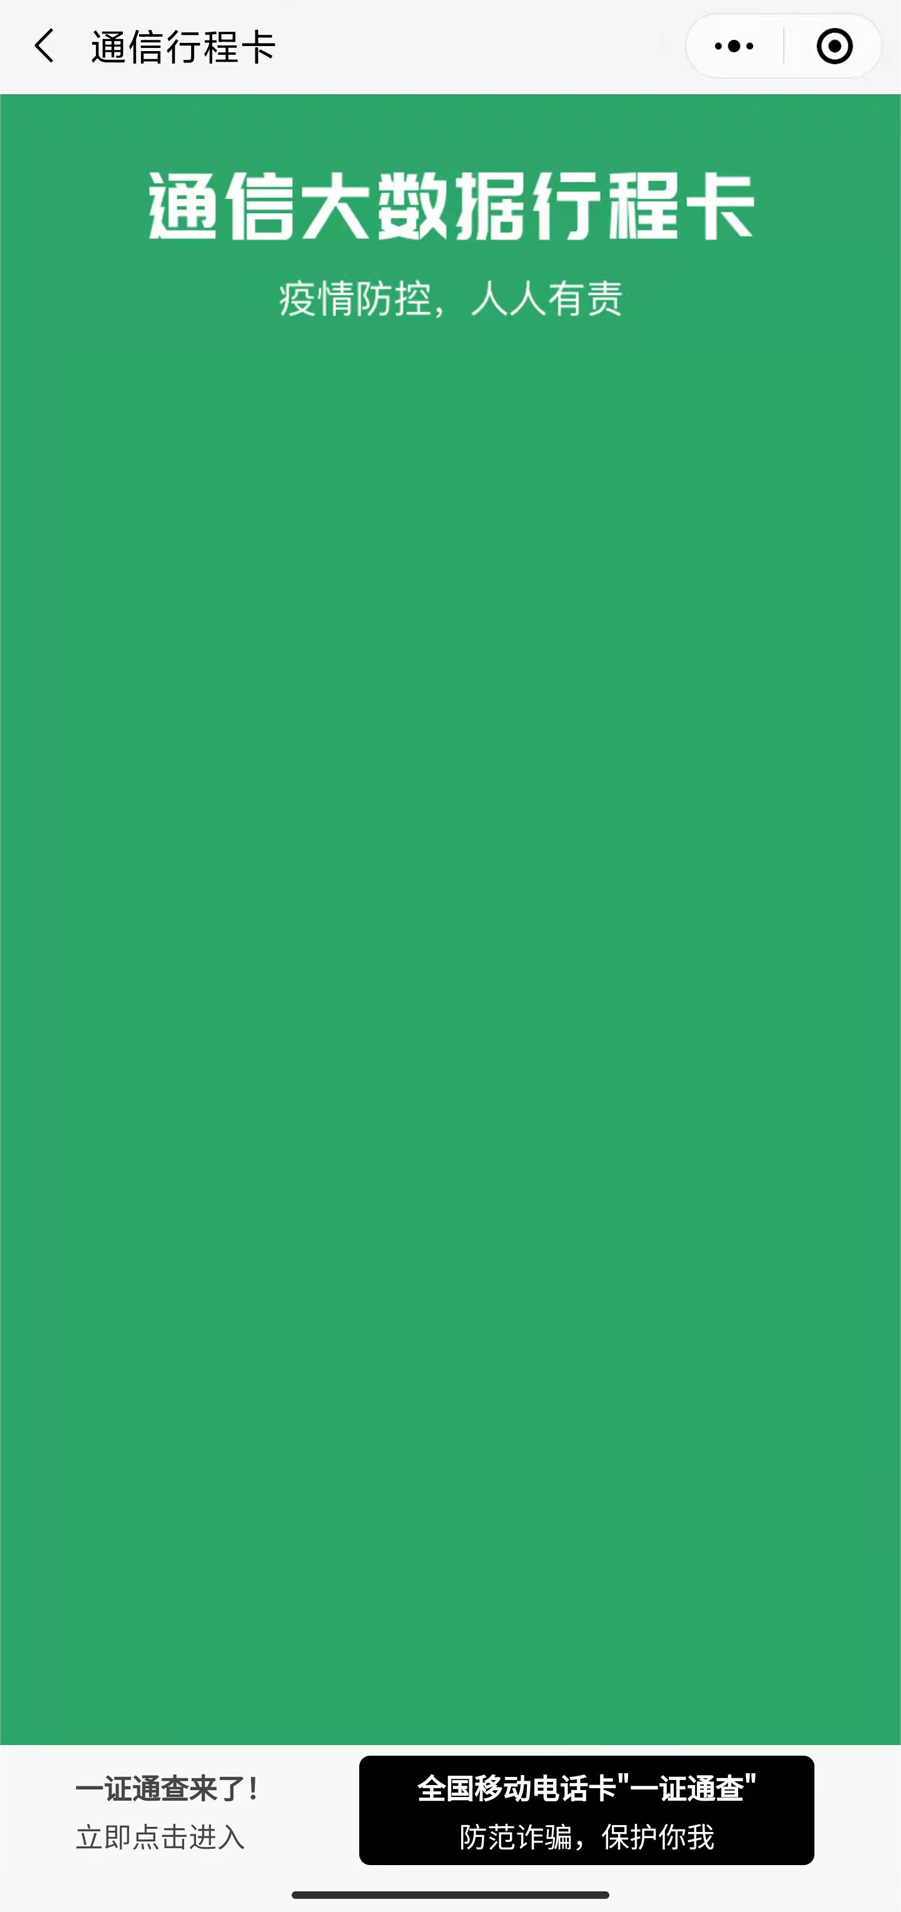
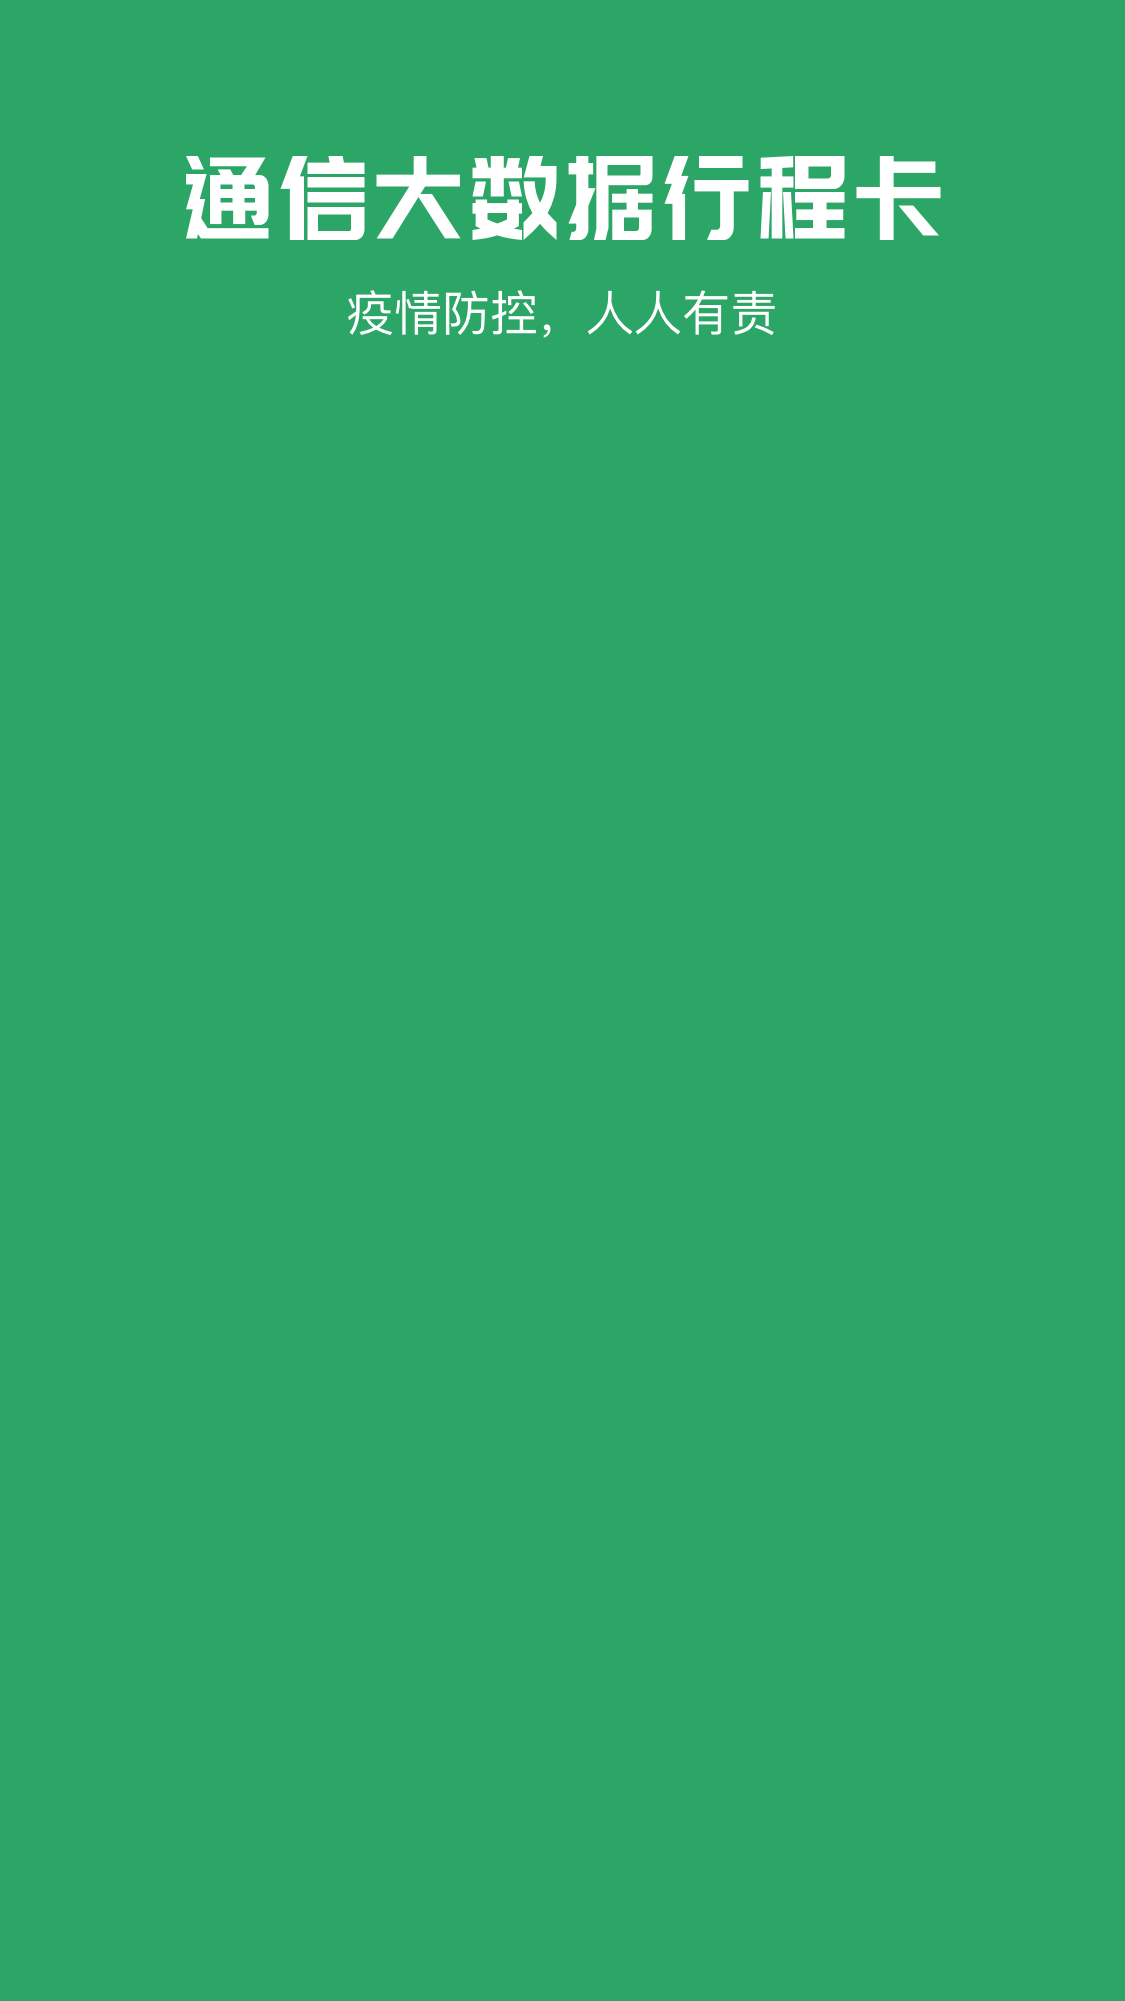
0

Changed region(s): [[0.0, 0.0, 1.0, 1.0]]

diff --git a/result.html b/result.html
@@ -76,8 +76,9 @@
               ) + "的动态行程卡";
               document.querySelector(".update").textContent =
                 "更新于：" + moment().format("YYYY.MM.DD HH:mm:ss");
-              addr = prompt("输入地址:","陕西省西安市");
-              document.querySelector(".addr").textContent = addr
+              document.querySelector(".addr").textContent = urlParams.get(
+                "addr"
+              );
             </script>
           </div>
           <!----><!---->
@@ -128,8 +129,8 @@
                   data-v-075eaec1=""
                   href="tel:10010"
                   style="font-size: 0.24rem; color: white;"
-                  >10010</a>
-                <br><br><br><br><br><br><br><br>
+                  >10010</a
+                >
               </div>
             </footer>
           </div>

diff --git a/result_files/result.b50572c6.css b/result_files/result.b50572c6.css
@@ -89,14 +89,14 @@
 }
 .result-wrap .bg-pic1[data-v-97f79f28] {
   background-size: 100% 100%;
-  margin-top: 0rem;
+  margin-top: -0.45rem;
   position: relative;
 }
 .result-wrap .bg-pic1 .banner-img-holder[data-v-97f79f28] {
   position: relative;
   width: 100%;
   height: 0;
-  padding-top: 3.12rem;
+  padding-top: 2.62rem;
 }
 .result-wrap .bg-pic1 .banner-img-holder img[data-v-97f79f28] {
   position: absolute;
